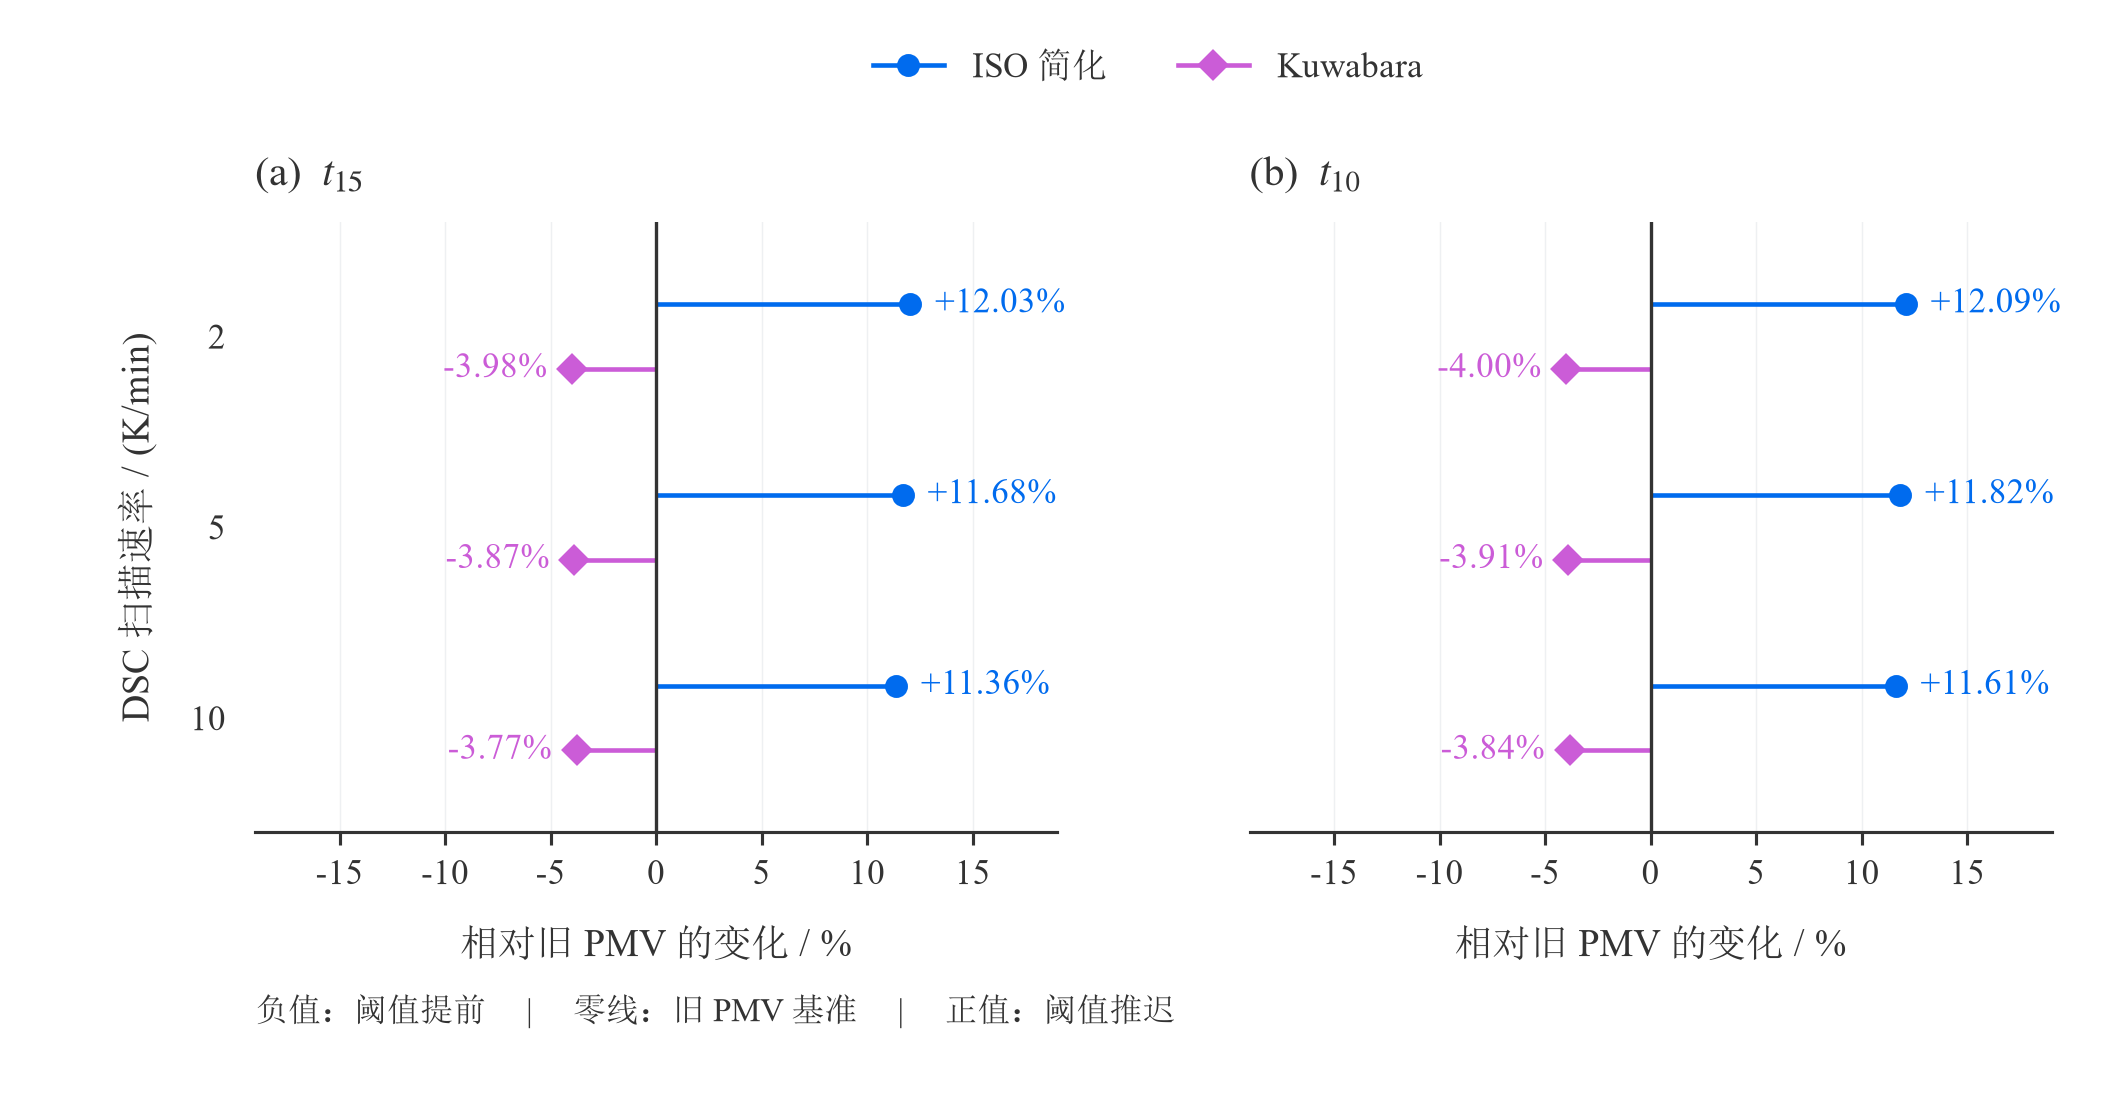
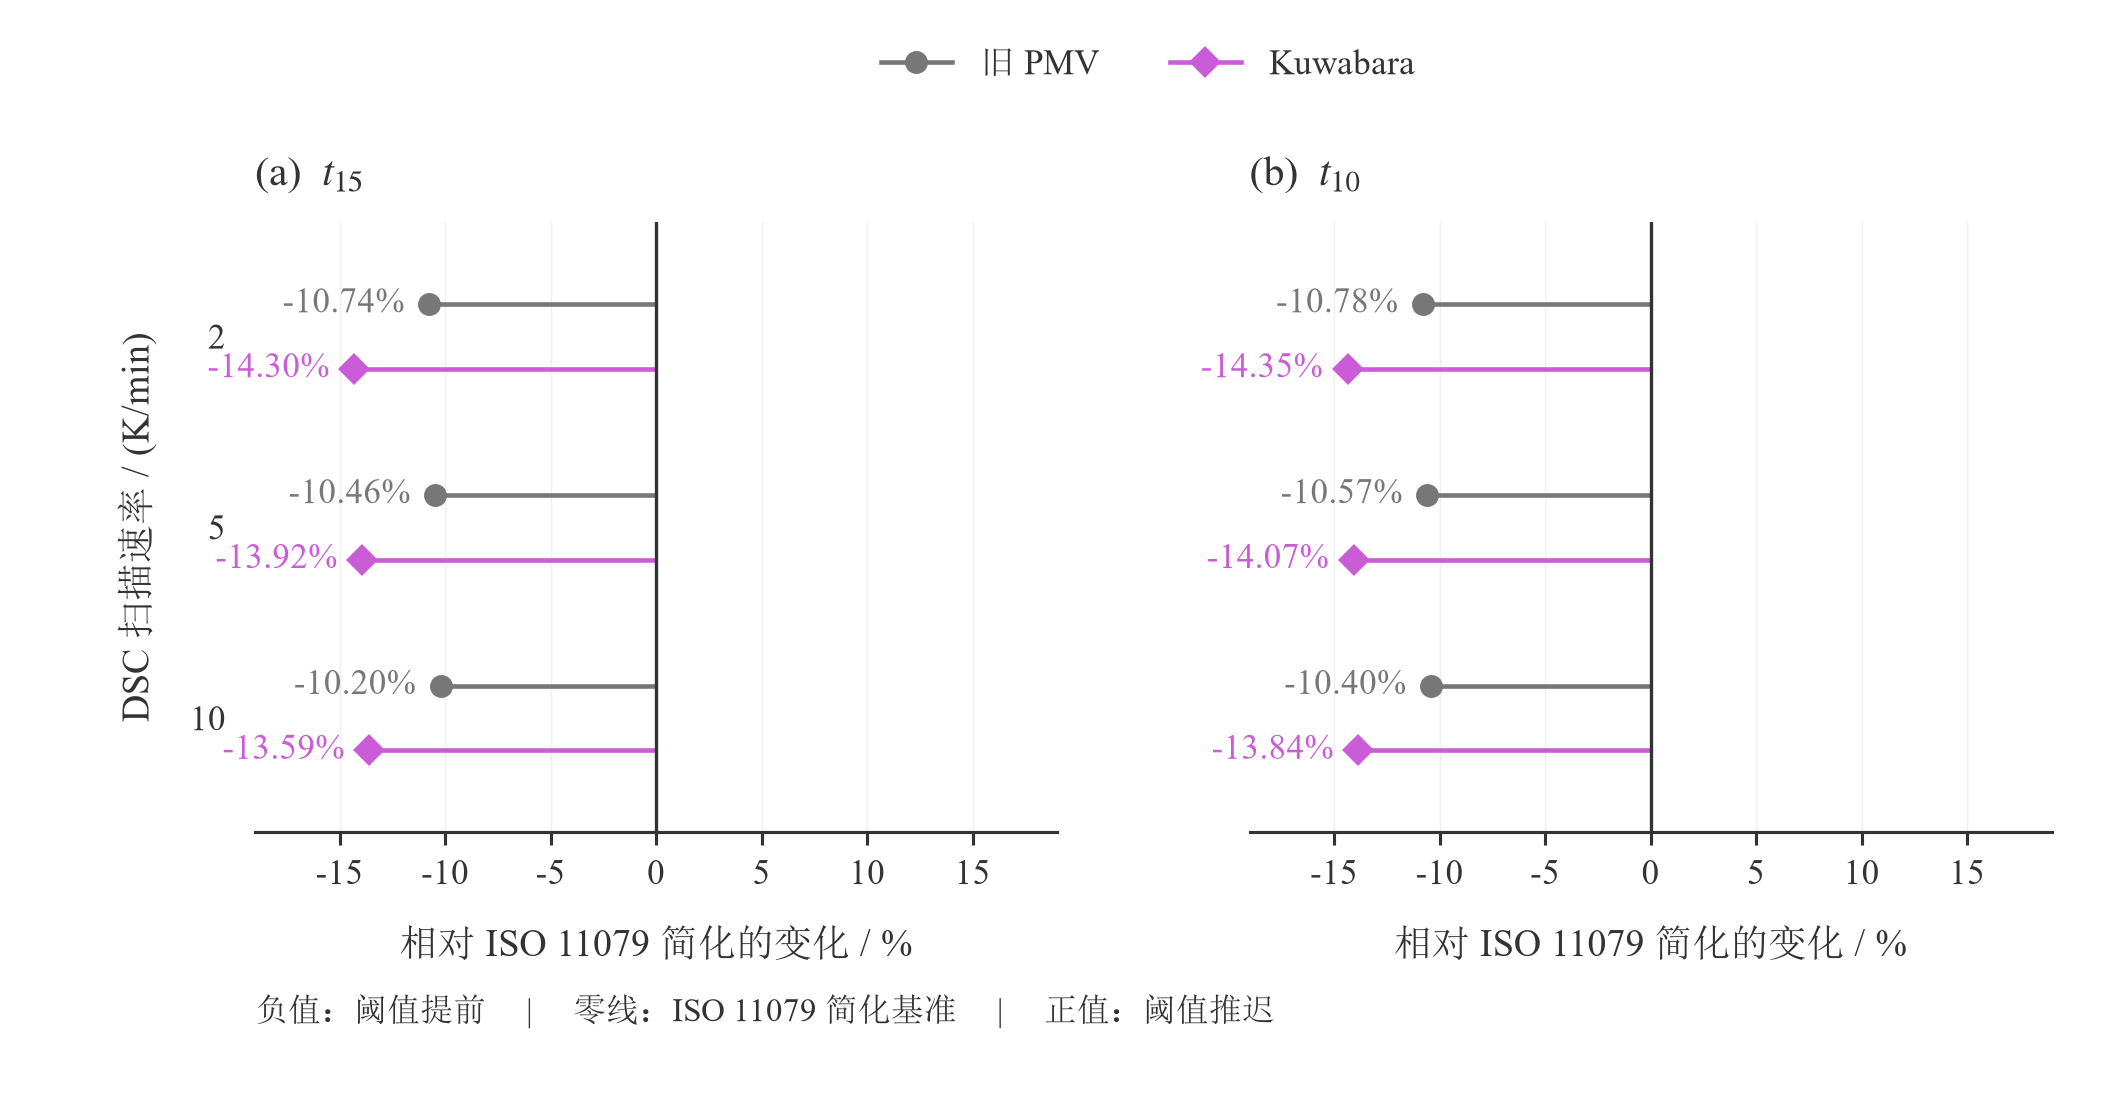
feat(q2): 交付Origin一图一表数据

diff --git a/modules/30_q2/code/第二问绘图.py b/modules/30_q2/code/第二问绘图.py
@@ -118,28 +118,28 @@ def draw_sens(data, out):
     fig, axes = plt.subplots(1, 2, figsize=(180 * MM, 94 * MM), sharey=True)
     fig.subplots_adjust(left=0.12, right=0.965, bottom=0.25, top=0.80, wspace=0.24)
     handles = [Line2D([], [], color=COLORS[n], marker=m, linewidth=1.1, markersize=4.5, label=SHORT[n])
-               for n, m in [(NAMES[0], "o"), (NAMES[2], "D")]]
+               for n, m in [(NAMES[1], "o"), (NAMES[2], "D")]]
     fig.legend(handles=handles, loc="upper center", bbox_to_anchor=(0.54, 0.985), ncol=2, frameon=False)
     for k, ax, tag in zip((15, 10), axes, ("a", "b")):
         style(ax)
         for r in data:
             name, scan = r["外对流模型"], float(r["扫描速率（K/min）"])
-            y = {2: 2, 5: 1, 10: 0}[scan] + (0.17 if name == NAMES[0] else -0.17)
+            y = {2: 2, 5: 1, 10: 0}[scan] + (0.17 if name == NAMES[1] else -0.17)
             x = float(r[f"t{k}变化（%）"])
             color = COLORS[name]
             ax.hlines(y, 0, x, color=color, linewidth=1.1)
-            ax.plot(x, y, "o" if name == NAMES[0] else "D", color=color, markersize=4.5)
+            ax.plot(x, y, "o" if name == NAMES[1] else "D", color=color, markersize=4.5)
             ax.annotate(f"{x:+.2f}%", (x, y), xytext=(6 if x > 0 else -6, 0), textcoords="offset points",
                         ha="left" if x > 0 else "right", va="center", color=color)
         ax.axvline(0, color=INK, linewidth=0.8)
         ax.set_xlim(-19, 19)
         ax.set_ylim(-0.6, 2.6)
         ax.set_xticks([-15, -10, -5, 0, 5, 10, 15])
-        ax.set_xlabel("相对旧 PMV 的变化 / %", labelpad=8)
+        ax.set_xlabel("相对 ISO 11079 简化的变化 / %", labelpad=8)
         panel(ax, rf"({tag})  $t_{{{k}}}$")
     axes[0].set_yticks([2, 1, 0], ["2", "5", "10"])
     axes[0].set_ylabel("DSC 扫描速率 / (K/min)", labelpad=8)
-    fig.text(0.12, 0.08, "负值：阈值提前     |     零线：旧 PMV 基准     |     正值：阈值推迟", fontsize=8)
+    fig.text(0.12, 0.08, "负值：阈值提前     |     零线：ISO 11079 简化基准     |     正值：阈值推迟", fontsize=8)
     save(fig, out, "边界敏感性")
 
 

diff --git a/modules/30_q2/code/绘图数据.py b/modules/30_q2/code/绘图数据.py
@@ -30,7 +30,7 @@ def main():
 
     time_rows, sens_rows, check_rows = [], [], []
     for scan in (2.0, 5.0, 10.0):
-        ref = index["旧PMV关系", scan]
+        ref = index["ISO 11079简化", scan]
         for name in names:
             r = index[name, scan]
             h, t15, t10 = (float(r[k]) for k in ("h_e（W/(m2 K)）", "t15（s）", "t10（s）"))
@@ -38,10 +38,9 @@ def main():
                 raise ValueError("阈值时间不合法")
             time_rows.append([name, h, scan, t15, t10, t10 - t15])
             change = [100 * (float(r[f"t{k}（s）"]) / float(ref[f"t{k}（s）"]) - 1) for k in (15, 10)]
-            for k, value in zip((15, 10), change):
-                if not math.isclose(value, float(r[f"t{k}较旧值变化（%）"]), abs_tol=1e-10):
-                    raise ValueError("敏感性复算与原表不符")
-            if name != "旧PMV关系":
+            if not all(math.isfinite(value) for value in change):
+                raise ValueError("敏感性复算得到非有限数值")
+            if name != "ISO 11079简化":
                 sens_rows.append([name, scan, *change])
 
     base = {(r["外对流模型"], float(r["扫描速率（K/min）"])): r for r in fvm if r["设置"] == "基准"}

diff --git a/modules/30_q2/results/绘图报告.md b/modules/30_q2/results/绘图报告.md
@@ -49,19 +49,19 @@
 
 **绘图工具：Python。** 按用户明确指定实现，与图一共用类别配色和数据来源。
 
-- 研究问题：相对旧 PMV 对照，另两种关系让阈值提前还是推迟，幅度是否值得在正文解释？
-- 分别以 `t15`、`t10` 为两个子图，横轴为相对变化百分数，旧 PMV 定义为零线，不再画一组全零柱。
-- 计算式：`变化 = 100 × (本关系阈值 / 同一扫描速率的旧 PMV 阈值 − 1)`。负号表示提前，正号表示推迟；这是相关式对照，不是误差率或概率。
+- 研究问题：相对 ISO 11079 简化主模型，其他外对流关系让阈值提前还是推迟，幅度是否值得在正文解释？
+- 分别以 `t15`、`t10` 为两个子图，横轴为相对变化百分数，ISO 11079 简化关系定义为零线，不再画一组全零柱。
+- 计算式：`变化 = 100 × (本关系阈值 / 同一扫描速率的 ISO 阈值 − 1)`。负号表示提前，正号表示推迟；这是相关式对照，不是误差率或概率。
 - 数据量：6 个非基准工况、每个两个阈值，共 12 个点。相同 DSC 行内的两类点作固定的类别排布偏移以免遮挡，不改变横轴数据，也不表示扫描速率偏移。
 - 横轴对称为 `−19%～19%`，使正负比较不受轴长误导；圆点与菱形提供颜色之外的类别识别。标注显示到 `0.01%`。
-- 读图发现：ISO 简化相对旧 PMV 推迟约 `11.36%～12.09%`，Kuwabara 提前约 `3.77%～4.00%`。因此外对流关系选择有实质影响，不能把不同来源的关系无说明地互换。
+- 读图发现：旧 PMV 相对 ISO 简化提前约 `10.20%～10.78%`，Kuwabara 提前约 `13.59%～14.35%`。因此外对流关系选择有实质影响，不能把不同来源的关系无说明地互换。
 - 结论限制：三条关系不是三个同等地位的最终主模型，也不是随机抽样。图不能证明哪个经验式物理上最准确，不能把相对变化当作完整模型的不确定区间。
 
-数据：[边界敏感性.csv](../data/processed/边界敏感性.csv)。字段：外对流模型、扫描速率、两个阈值的有符号变化。只含需要绘制的两种非基准关系。
+数据：[边界敏感性.csv](../data/processed/边界敏感性.csv)。字段：外对流模型、扫描速率、两个阈值相对 ISO 主模型的有符号变化。只含需要绘制的两种非基准关系。
 
 输出：[矢量 SVG](../figures/边界敏感性.svg) / [PNG 预览](../figures/预览/边界敏感性.png)。尺寸 `180 × 94 mm`。
 
-建议图注：**外对流关系对阈值时间的影响。** 以同一 DSC 工况下的旧 PMV 阈值为分母，比较 ISO 简化与 Kuwabara 关系的相对变化。正值表示阈值推迟，负值表示提前；零线为旧 PMV 对照。
+建议图注：**外对流关系对阈值时间的影响。** 以同一 DSC 工况下的 ISO 11079 简化阈值为分母，比较旧 PMV 与 Kuwabara 关系的相对变化。正值表示阈值推迟，负值表示提前；零线为 ISO 主模型。
 
 ![边界敏感性预览](../figures/预览/边界敏感性.png)
 
@@ -124,3 +124,19 @@ python modules/30_q2/code/绘图检查.py modules/30_q2/data/processed modules/3
 - 自动检查覆盖 134 处文字边界；三张 SVG 无嵌入位图且物理宽度为 180 mm；PNG 尺寸分别为 `2125×1677`、`2125×1110`、`2125×2102` 像素。这些检查与目视验收互补，不能代替数学模型审核。
 - 将图和数据复制到仓库固定目录后重新执行检查；两份运行记录中的源码、输入和输出共 16 项哈希均与交付文件相符。报告 19 个资源链接均可解析，三个脚本语法检查、`git diff --check`、冲突标记检查及仓库 `final_preflight.py` 通过；预检仍提示其他章节的既有排版建议，本轮未越界修改。
 - 本轮未把图插入正文，也未修改求解模型。后续论文整合需要按 `44a9649` 审核完成主模型、接口坐标、ISO 简化推导、符号和算法同步，再引用选定图并解释结论；不应因本绘图包已验收就把整问标记为终稿冻结。
+
+## 9. Origin 一图一表交付
+
+根据最新绘图审核，已另行生成 [Origin绘图表.xlsx](../data/processed/Origin绘图表.xlsx)。该工作簿仅用于 Origin 导入和后续排版，不替代仓库内三份 CSV 真源。
+
+工作簿包含三个工作表，每张图对应一张扁平表：
+
+| 工作表 | 直接绘图列 | 图的论证作用 |
+|---|---|---|
+| `阈值时间` | `类别`、`t15（s）`、`t10（s）`、`阈值间隔（s）`；`β_DSC`、模型与 `h_e` 用于分组和标注 | 比较 ISO 主模型与两个关系对照的绝对阈值时间，并展示两个阈值的间隔 |
+| `边界敏感性` | `类别`、`t15相对ISO（%）`、`t10相对ISO（%）`；同时保留原始时间和 ISO 分母列 | 以 ISO 11079 简化关系为零基准，显示其他关系会使阈值提前或推迟多少 |
+| `数值验证` | 上图使用 `模态-FVM差异（%）`；下图使用 `加密幅值（%）`，符号在 `加密变化（%）` | 分离九工况方法差异与 ISO 5 K/min 的 FVM 加密变化，避免混用分母 |
+
+数值列均为真实数值而非带单位字符串；敏感性表中的百分数由工作表公式计算，阈值间隔、方法差异和加密幅值也保留为可审计公式。Origin 可直接导入指定列，不需重新透视、合并或计算。`数值验证` 中基准行的加密列留空，正是为了让 Origin 分图时不误把两类量画在同一系列。
+
+工作簿采用深色表头、浅色交替行、ISO 主模型浅蓝高亮、冻结首行和关闭网格线；不使用颜色作为唯一数据编码。工作簿已导出后重新导入复核：三张表无公式错误，三张渲染预览与导出前一致。该文件已落在 Q2 固定的 `data/processed/` 目录，可随仓库版本追踪。

diff --git a/modules/30_q2/results/结果交接.md b/modules/30_q2/results/结果交接.md
@@ -43,6 +43,8 @@
 
 本轮可用图：三种外对流关系的阈值时间、相对旧 PMV 的边界敏感性、九工况的有限体积验证。旧温度曲线与温度剖面只覆盖旧 PMV 对照，未更新主模型前不作为最终主结果图；Q1/Q2 对比也须确认边界与口径一致后另行制作。
 
+用于 Origin 后续精修的一图一表工作簿为 `data/processed/Origin绘图表.xlsx`，其中 `阈值时间`、`边界敏感性`、`数值验证` 三个工作表分别对应三张图；每个工作表是一张独立扁平表，公式和单位见 `绘图报告.md`。
+
 允许表述：旧 PMV 外对流关系下的上述阈值时间已通过数值收敛与独立有限体积复核，可作为外对流相关式敏感性的对照基线。
 
 禁止写入：把 `h_e=20.9578 W/(m2 K)` 或 `t15=92.67 s` 写成最终唯一结论；动态人体热容节点；以固定 `37 degC` 人体源温度作为阈值；无限 `q_pcm(T)` 功率源；实地实验验证或超出当前参数范围的外推结论。

diff --git a/work/tasks/q2.md b/work/tasks/q2.md
@@ -3,6 +3,7 @@
 ## 本轮绘图
 - [x] 以当前冻结的外对流核算与有限体积验证为输入，用 Python 交付阈值时间、边界敏感性和数值验证三图、逐图数据、绘图报告与运行审计。
 - [x] 外部数据与绘图运行均为 `PASS`；最终预览逐张目视验收，134 处文字边界检查通过，SVG 无嵌入位图、宽 180 mm，PNG 为 300 dpi。交接入口为 `modules/30_q2/results/绘图报告.md`。
+- [x] 按审核意见生成 `data/processed/Origin绘图表.xlsx`，含三张一图一表工作表；公式、数值类型、导出后重导入和视觉渲染复核均通过。
 - 本轮仅制作相关式对照和数值验证图，不改求解模型及正文。`44a9649` 审核已建议主模型使用 `18.46`，但正文与最终结果登记尚未同步；图不作为 ISO 附录公式或物理适用性的验证。
 
 ## 当前继承关系
